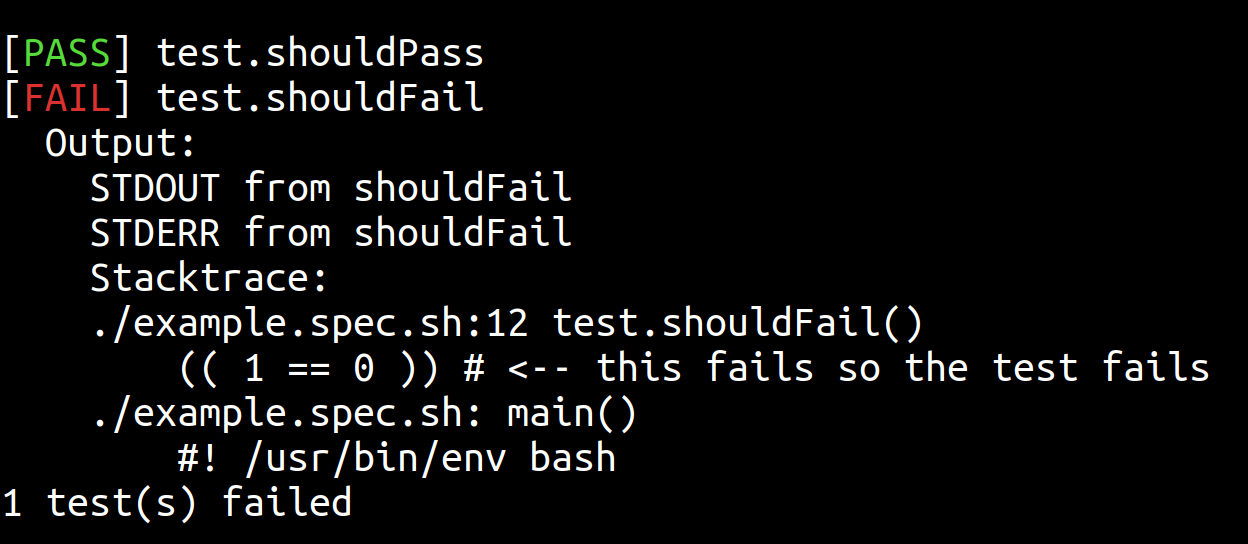
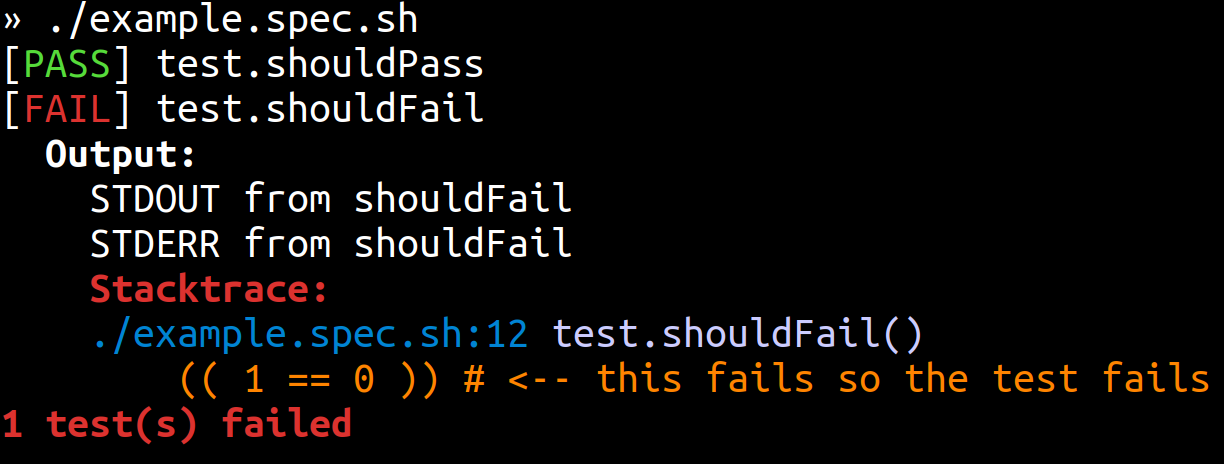
Add tests to confirm example.spec.sh works OK

Changed region(s): [[0.0, 0.0, 0.9935, 0.9655]]

diff --git a/README.md b/README.md
@@ -20,14 +20,14 @@ test.shouldFail() {
 }
 
 # Copy/paste the 8 lines of code below:
-testTrap='echo "Stacktrace:"; for ((i=0;i<${#BASH_SOURCE[@]};i++)); do echo "${BASH_SOURCE[i]}:${LINENO[i]} ${FUNCNAME[i]}()\n$( sed "${LINENO[i]}q;d" "${BASH_SOURCE[i]}" | sed "s/^ *//g" | sed "s/^/    /" )"; done'
-for testFn in $( declare -pF | awk '{ print $3 }' | grep ^test\|^spec | sort -R ); do
+testTrap='[ -n "${FUNCNAME[*]}" ] && echo -e "\e[31;1mStacktrace:\e[0m"; for ((i=0;i<${#BASH_SOURCE[@]};i++)); do [ -z "${FUNCNAME[i]}" ] || [ -z "${LINENO[i]}" ] && continue; echo -e "\e[34m${BASH_SOURCE[i]}:${LINENO[i]}\e[0m \e[36m${FUNCNAME[i]}()\e[0m\n\e[93m$( sed "${LINENO[i]}q;d" "${BASH_SOURCE[i]}" | sed "s/^ *//g" | sed "s/^/    /" )\e[0m"; done'
+for testFn in $( declare -pF | awk '{ print $3 }' | grep "^test\|^spec" | sort -R ); do
   output="$( trap "$testTrap" ERR; [ -z "${BEFORE_TEST+x}" ] && set -eE || eval "$BEFORE_TEST"; $testFn 2>&1 )"
   case $? in
-    0) echo -e "[\e[32mPASS\e[0m] $testFn"; [ "$VERBOSE" = true ] && printf '  %s\n%s\n' Output: "$( echo -e "$output" | sed 's/^/    /' )" ;;
-    *) echo -e "[\e[31mFAIL\e[0m] $testFn"; anyFailed=$(( anyFailed = anyFailed + 1 )); printf '  %s\n%s\n' Output: "$( echo -e "$output" | sed 's/^/    /' )" ;;
+    0) echo -e "[\e[32mPASS\e[0m] $testFn"; [ "$VERBOSE" = true ] && [ -n "$output" ] && printf '  \e[39;1m%s\e[0m\n%s\n' Output: "$( echo -e "$output" | sed 's/^/    /' )" ;;
+    *) echo -e "[\e[31mFAIL\e[0m] $testFn"; anyFailed=$(( anyFailed = anyFailed + 1 )); [ -n "$output" ] && printf '  \e[39;1m%s\e[0m\n%s\n' Output: "$( echo -e "$output" | sed 's/^/    /' )" ;;
   esac
-done; [ -n "$anyFailed" ] && { echo "$anyFailed test(s) failed" >&2; exit 1; }
+done; [ -n "$anyFailed" ] && { echo -e "\e[31;1m$anyFailed test(s) failed\e[0m" >&2; exit 1; } || echo -e "\e[32;1mTests passed\e[0m"
 ```
 
 ### Have multiple test files?
